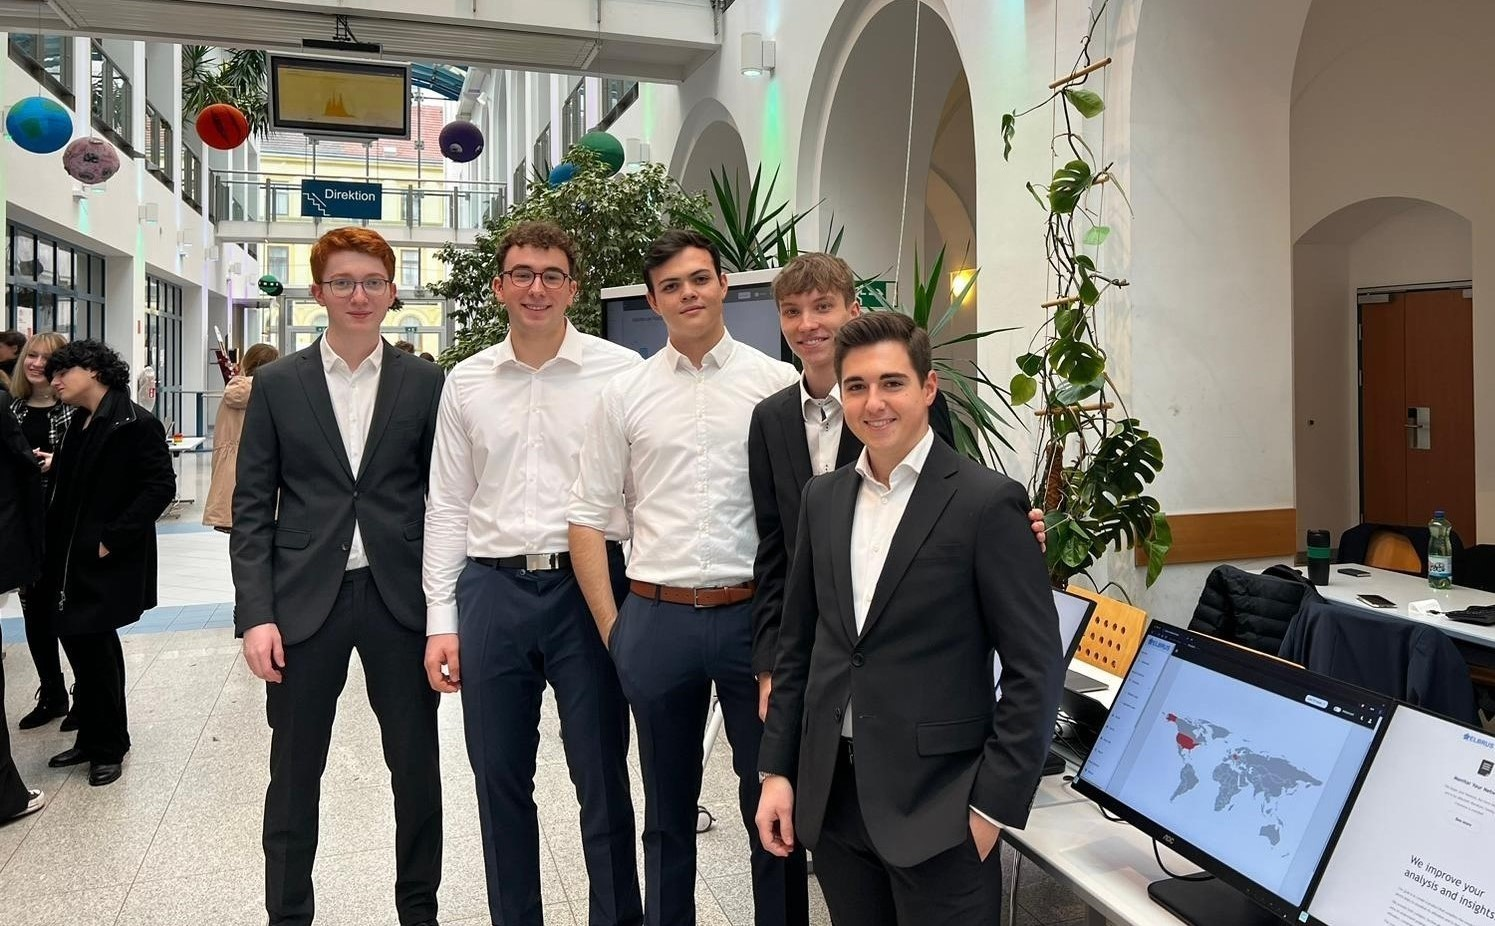
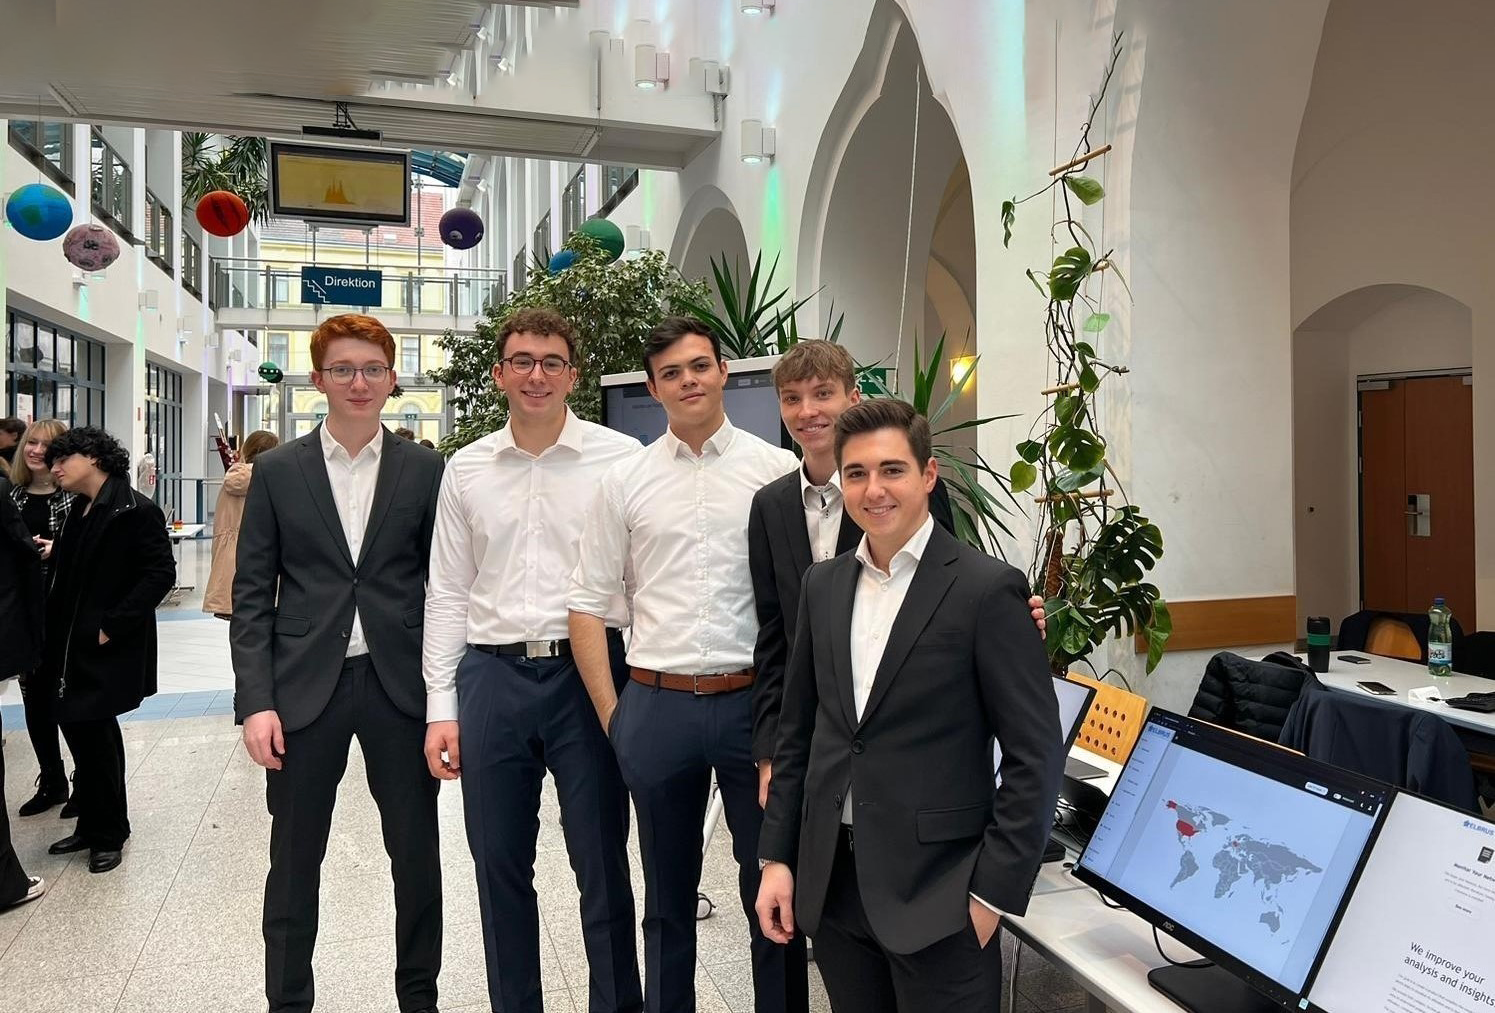
Uploaded team-04

diff --git a/index.html b/index.html
@@ -291,7 +291,7 @@
           <div class="col-md-3">
             <div class="advs-box niche-box-team" data-anima="scale-up" data-trigger="hover">
               <a class="img-box">
-                <img class="anima" src="images/team/team-04.png" alt="" />
+                <img class="anima" src="images/team/team-04.jpeg" alt="" />
               </a>
               <div class="content-box">
                 <h2>Tobias Schmidt</h2>

diff --git a/styles.css b/styles.css
@@ -7256,7 +7256,7 @@ header {
 }
 
 .section-bg-image.parallax-window.text-center.section-middle-img {
-    background-image: url(images/team/team-banner5.jpeg);
+    background-image: url(images/team/team-banner.jpeg);
 }
 
 @media (max-width: 992px) {
